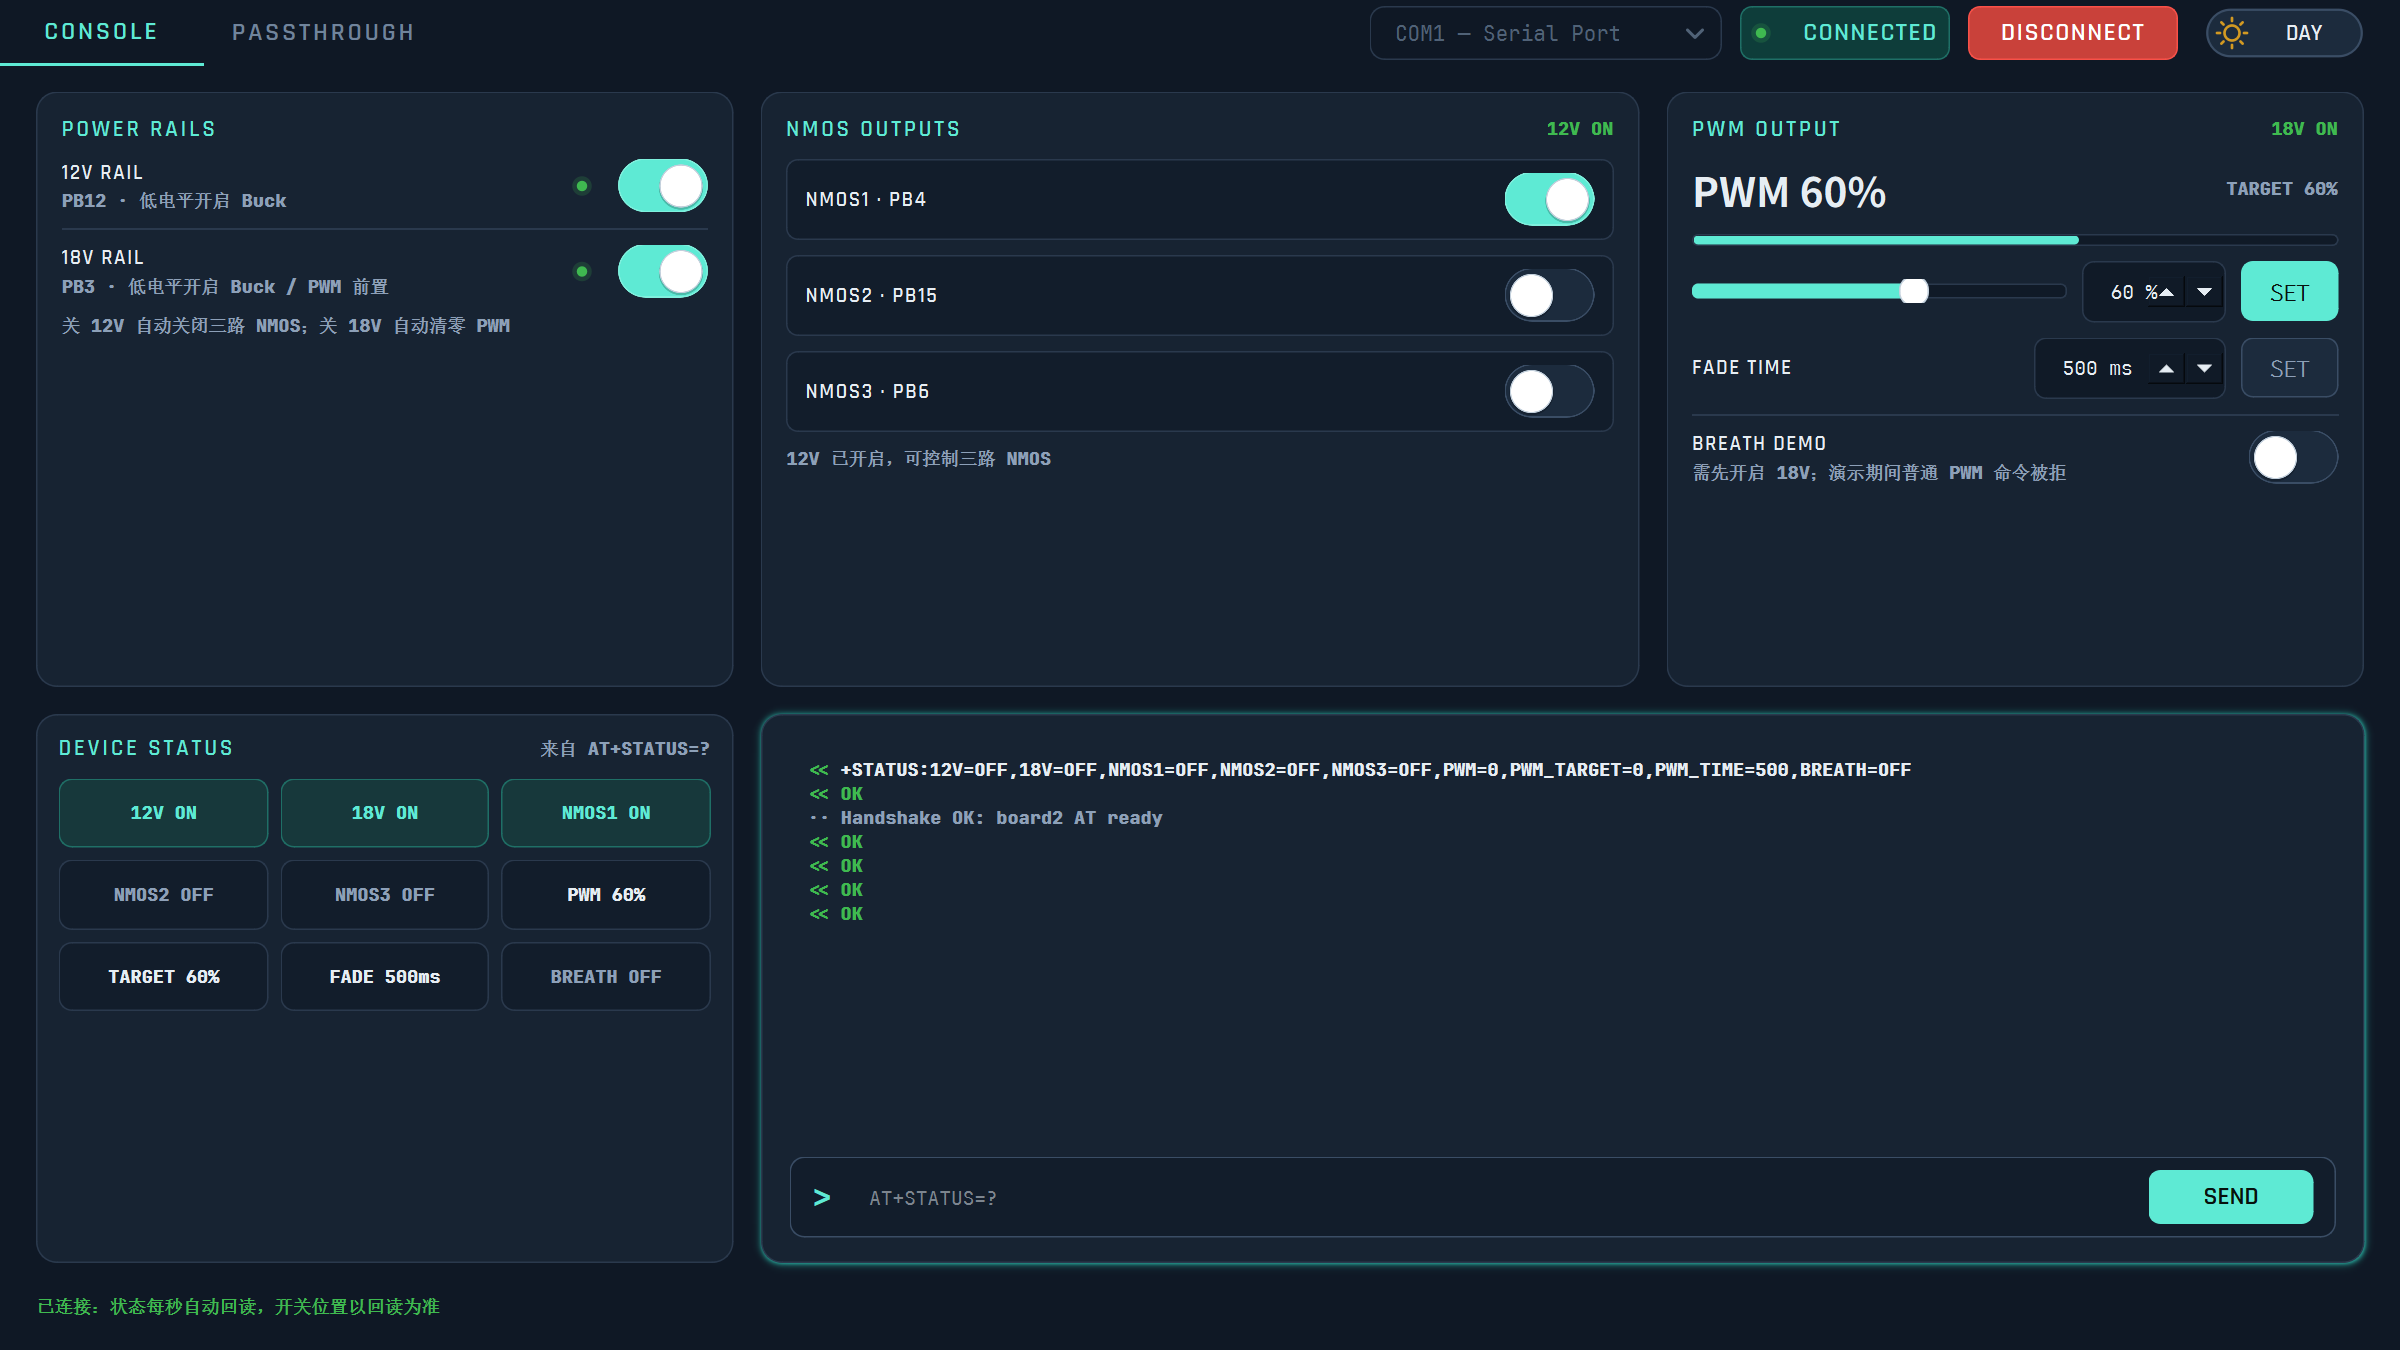
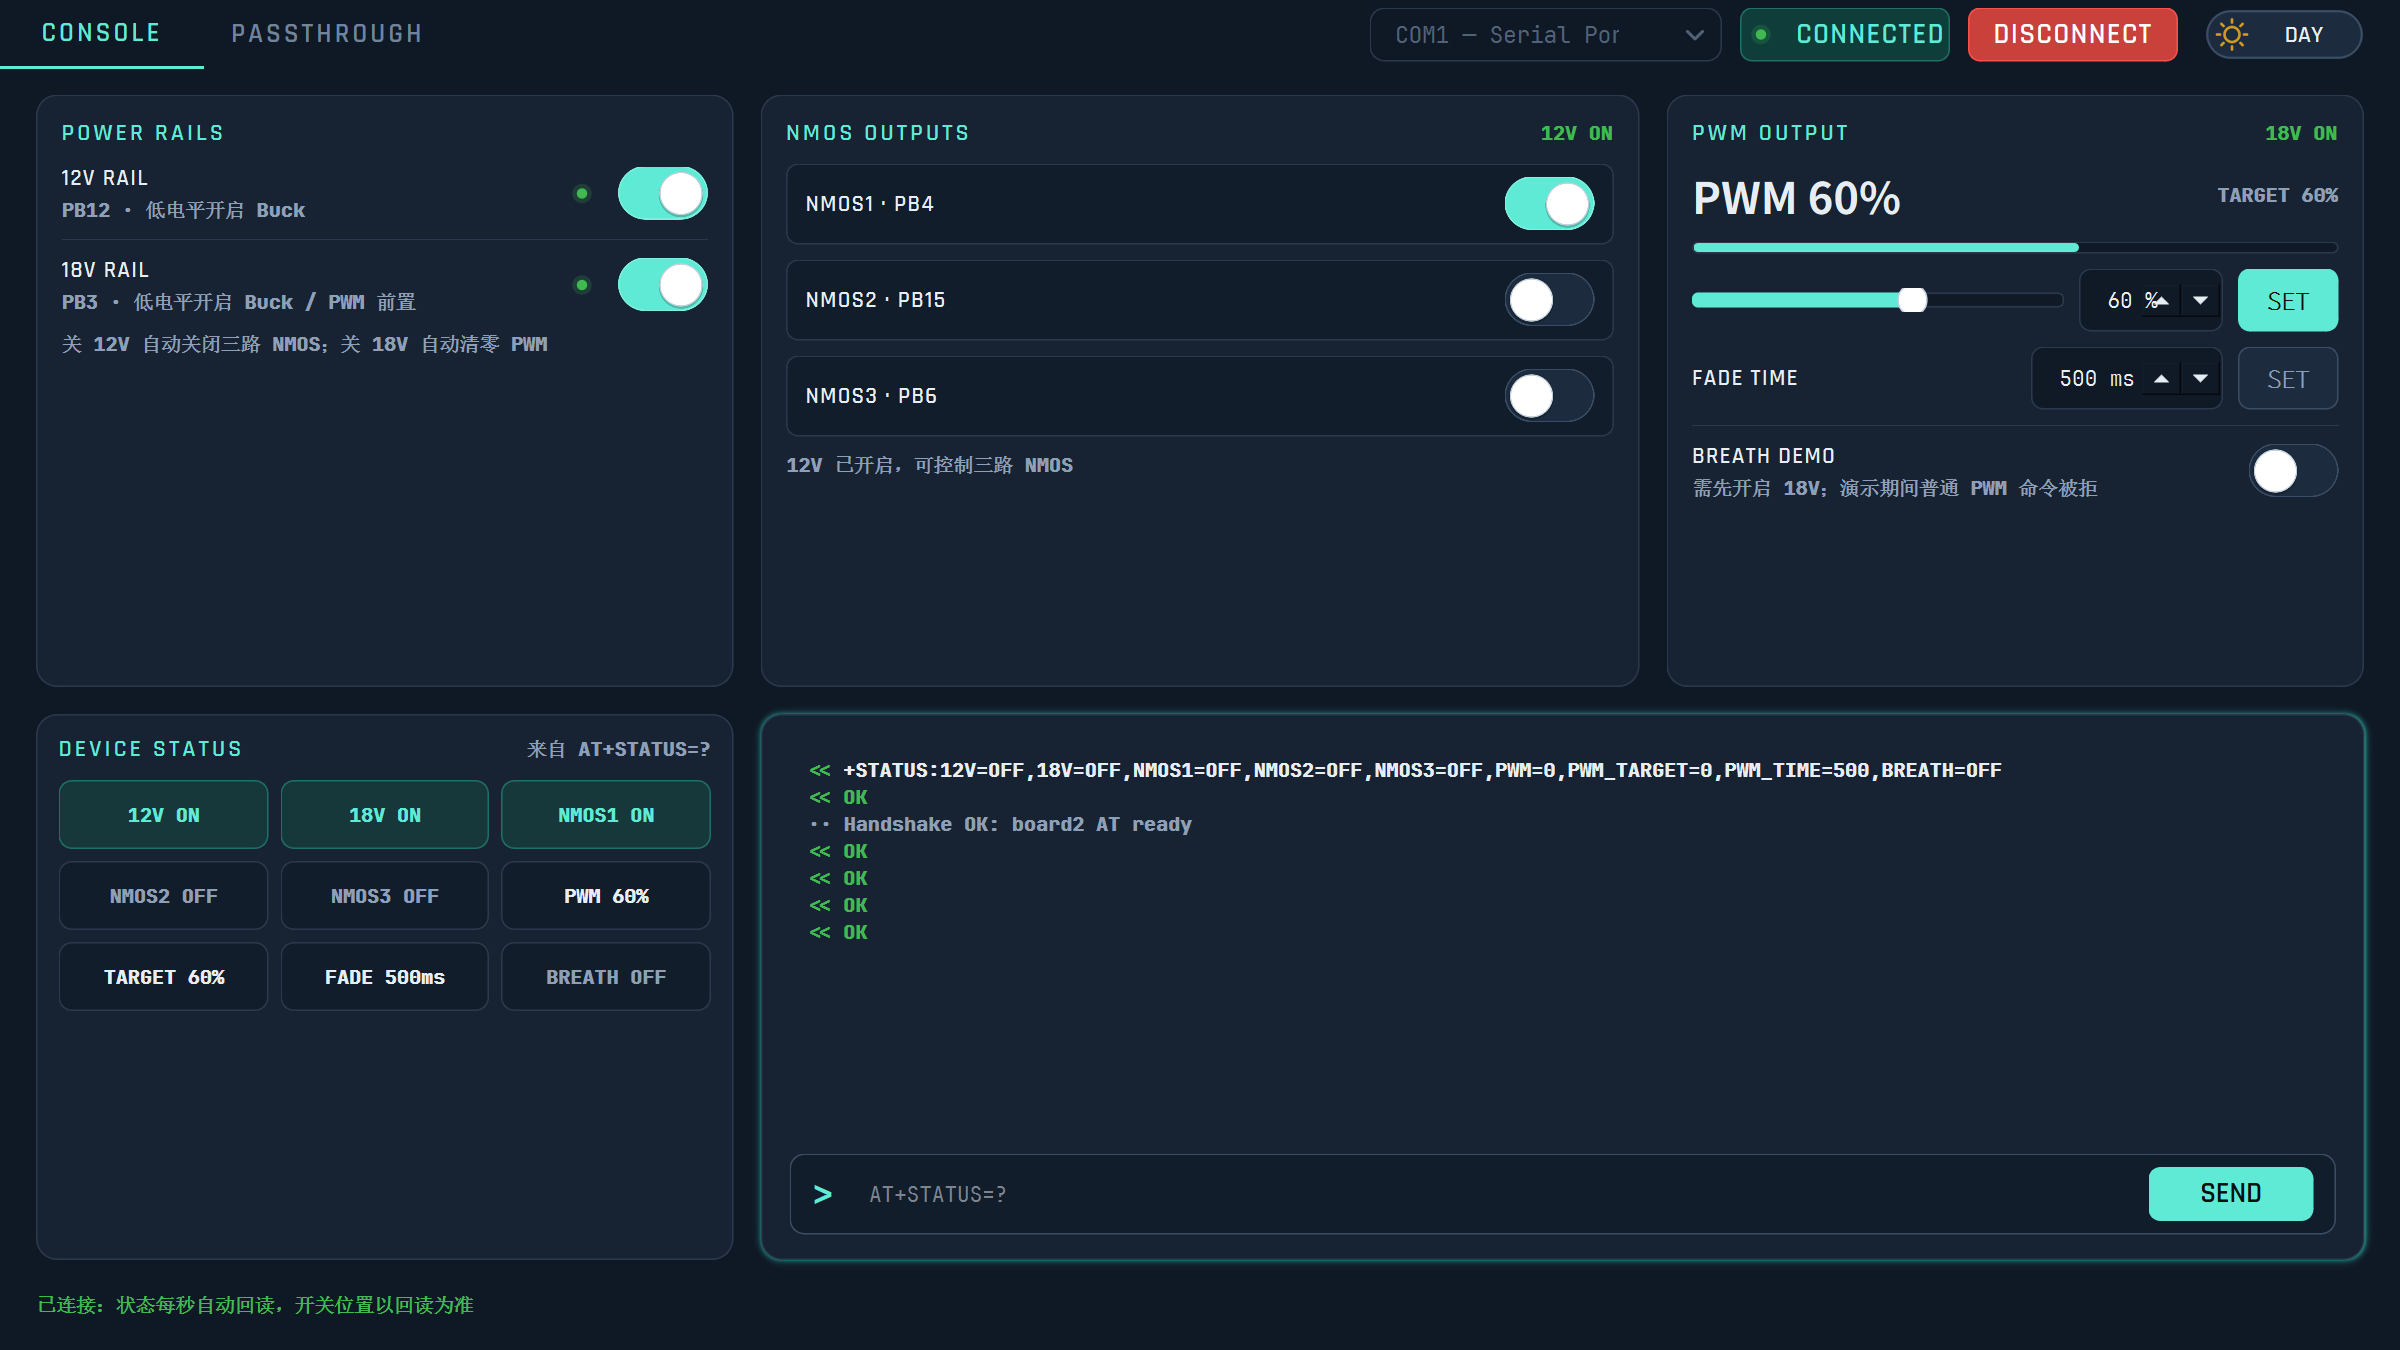
style(ui): 字号体系整体提升一档并保持级差 (基线11→12pt, 标题15→16, 行标题14→15, 副文本12→13, 芯片12→13, 输入13→14, Tab17→18, PWM大数字20→22, 日志13→13.5)

diff --git a/stem_hub_board2_host/ui/widgets/at_console.py b/stem_hub_board2_host/ui/widgets/at_console.py
@@ -61,7 +61,7 @@ class AtConsole(QFrame):
         )
         self.log_view.setFrameShape(QFrame.Shape.NoFrame)
         f_log = QFont(theme.FONT_MONO)
-        f_log.setPointSize(13)
+        f_log.setPointSizeF(13.5)
         self.log_view.setFont(f_log)
         outer.addWidget(self.log_view, 1)
 
@@ -75,7 +75,7 @@ class AtConsole(QFrame):
         # > 提示符
         self.prompt = QLabel(">")
         f_p = QFont(theme.FONT_MONO)
-        f_p.setPointSize(16)
+        f_p.setPointSize(17)
         f_p.setBold(True)
         self.prompt.setFont(f_p)
         self.prompt.setFixedWidth(18)
@@ -87,7 +87,7 @@ class AtConsole(QFrame):
         self.input_edit.returnPressed.connect(self._on_send)
         self.input_edit.setFixedHeight(theme.CONTROL_HEIGHT)
         f_in = QFont(theme.FONT_MONO)
-        f_in.setPointSize(13)
+        f_in.setPointSize(14)
         self.input_edit.setFont(f_in)
         send_row.addWidget(self.input_edit, 1)
 
@@ -98,7 +98,7 @@ class AtConsole(QFrame):
         self.send_btn.setFixedHeight(theme.CONTROL_HEIGHT)
         self.send_btn.setMinimumWidth(110)
         f_btn = QFont(theme.FONT_DISPLAY)
-        f_btn.setPointSize(13)
+        f_btn.setPointSize(14)
         f_btn.setBold(True)
         self.send_btn.setFont(f_btn)
         self.send_btn.clicked.connect(self._on_send)

diff --git a/stem_hub_board2_host/ui/theme.py b/stem_hub_board2_host/ui/theme.py
@@ -28,7 +28,7 @@ SERIAL_HEADER_WIDTH = 539
 SERIAL_HEADER_GAP = 18
 SERIAL_DOT_CENTER_X = 14
 SERIAL_BADGE_TEXT_INSET = 34
-SERIAL_CONTROL_FONT_SIZE = 13
+SERIAL_CONTROL_FONT_SIZE = 14
 SWITCH_WIDTH = 60
 SWITCH_HEIGHT = 36
 SWITCH_KNOB_SIZE = 28
@@ -293,14 +293,14 @@ def configure_font_families(display: str, mono: str, cjk: str) -> None:
     FONT_MONO = mono
     FONT_FAMILY = cjk
 
-# ---- 字号 ----
-FS_CAPTION = 11
-FS_FOOTNOTE = 12
-FS_BODY = 13
-FS_HEADLINE = 14
-FS_TITLE3 = 15
-FS_TITLE2 = 16
-FS_TITLE1 = 20
-FS_LARGE_TITLE = 32
-FS_DISPLAY = 42
-FS_HUGE = 64
+# ---- 字号 (整体提升一档, 保持级差) ----
+FS_CAPTION = 12
+FS_FOOTNOTE = 13
+FS_BODY = 14
+FS_HEADLINE = 15
+FS_TITLE3 = 16
+FS_TITLE2 = 17
+FS_TITLE1 = 21
+FS_LARGE_TITLE = 33
+FS_DISPLAY = 43
+FS_HUGE = 65

diff --git a/stem_hub_board2_host/ui/widgets/serial_bar.py b/stem_hub_board2_host/ui/widgets/serial_bar.py
@@ -45,7 +45,7 @@ class _ChevronCombo(QComboBox):
             f"  border-radius: 10px;"
             f"  padding: 8px 36px 8px 16px;"
             f"  font-family: '{theme.FONT_MONO}';"
-            f"  font-size: 14px;"
+            f"  font-size: 15px;"
             f"}}"
             f"QComboBox:hover {{ border-color: {theme.BORDER_LIGHT}; }}"
             f"QComboBox:focus {{ border-color: {theme.ACCENT}; }}"

diff --git a/stem_hub_board2_host/app.py b/stem_hub_board2_host/app.py
@@ -35,7 +35,7 @@ def get_app() -> QApplication:
             mono=_font_families.mono,
             cjk=_font_families.cjk,
         )
-        application_font = QFont(_font_families.cjk, 11)
+        application_font = QFont(_font_families.cjk, 12)
         application_font.setStyleStrategy(QFont.StyleStrategy.PreferAntialias)
         _app.setFont(application_font)
     return _app

diff --git a/stem_hub_board2_host/ui/widgets/passthrough_panel.py b/stem_hub_board2_host/ui/widgets/passthrough_panel.py
@@ -193,7 +193,7 @@ class PassthroughPanel(QFrame):
         self.rx_view = QPlainTextEdit()
         self.rx_view.setReadOnly(True)
         self.rx_view.setMaximumBlockCount(2000)
-        self.rx_view.setFont(QFont(theme.FONT_MONO, 11))
+        self.rx_view.setFont(QFont(theme.FONT_MONO, 12))
         rx_col.addWidget(self.rx_view, 1)
 
         # RX panel footer

diff --git a/stem_hub_board2_host/ui/tab1_console.py b/stem_hub_board2_host/ui/tab1_console.py
@@ -83,7 +83,7 @@ class ConsoleTab(QWidget):
             "未连接：选择串口并点击 CONNECT (固定 9600 8N1)"
         )
         self.conn_hint.setObjectName("secondary")
-        self.conn_hint.setFixedHeight(22)
+        self.conn_hint.setFixedHeight(24)
         outer.addWidget(self.conn_hint)
 
         # 信号

diff --git a/stem_hub_board2_host/ui/widgets/pwm_card.py b/stem_hub_board2_host/ui/widgets/pwm_card.py
@@ -53,7 +53,7 @@ class PwmCard(QFrame):
         value_row = QHBoxLayout()
         self.value_label = QLabel("PWM 0%")
         f = self.value_label.font()
-        f.setPointSize(20)
+        f.setPointSize(22)
         f.setBold(True)
         self.value_label.setFont(f)
         value_row.addWidget(self.value_label)

diff --git a/stem_hub_board2_host/ui/widgets/theme_toggle.py b/stem_hub_board2_host/ui/widgets/theme_toggle.py
@@ -77,7 +77,7 @@ class ThemeToggleButton(QAbstractButton):
             label = "NIGHT"
 
         font = QFont(theme.FONT_DISPLAY)
-        font.setPointSize(11)
+        font.setPointSize(12)
         font.setBold(True)
         p.setFont(font)
         p.setPen(QColor(theme.FG_PRIMARY))
